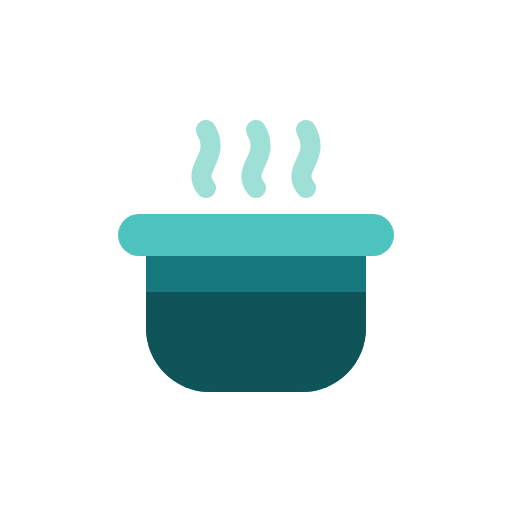
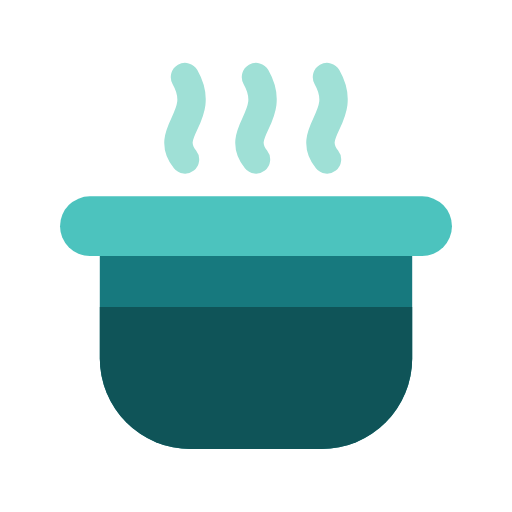
Version 87: App-Symbol am PC ohne Hintergrund
Claude-Session: https://claude.ai/code/session_01SbUVCjYat9ziiaDZ9Au2cc

Changed region(s): [[0.0938, 0.125, 0.9062, 0.875]]

diff --git a/sw.js b/sw.js
@@ -1,6 +1,6 @@
 /* Offline-Unterstützung: App-Dateien werden zwischengespeichert, Daten kommen immer frisch von Supabase. */
-const VERSION = "rb-v86";
-const SHELL = ["./", "index.html", "style.css", "app.js", "config.js", "nutrition.js", "vendor/supabase.js", "vendor/jspdf.umd.min.js", "manifest.webmanifest?i=7", "icons/icon-192.png?i=7", "icons/icon-512.png?i=7", "icons/icon-maskable-512.png?i=7", "icons/icon-monochrome-512.png?i=7", "icons/apple-touch-icon.png?i=7", "icons/icon.svg?i=7", "icons/icon-dark.svg?i=4", "icons/icon-light.svg?i=4", "icons/standard.svg", "icons/kat-kuchen.svg", "icons/kat-kekse.svg", "icons/kat-brot.svg", "icons/kat-dessert.svg", "icons/kat-hauptgericht.svg", "icons/kat-suppen.svg", "icons/kat-saucen.svg", "icons/kat-beilagen.svg", "icons/kat-grundrezepte.svg", "icons/favicon-32.png?i=7"];
+const VERSION = "rb-v87";
+const SHELL = ["./", "index.html", "style.css", "app.js", "config.js", "nutrition.js", "vendor/supabase.js", "vendor/jspdf.umd.min.js", "manifest.webmanifest?i=8", "icons/icon-192.png?i=8", "icons/icon-512.png?i=8", "icons/icon-maskable-512.png?i=8", "icons/icon-monochrome-512.png?i=8", "icons/apple-touch-icon.png?i=8", "icons/icon.svg?i=8", "icons/icon-dark.svg?i=4", "icons/icon-light.svg?i=4", "icons/standard.svg", "icons/kat-kuchen.svg", "icons/kat-kekse.svg", "icons/kat-brot.svg", "icons/kat-dessert.svg", "icons/kat-hauptgericht.svg", "icons/kat-suppen.svg", "icons/kat-saucen.svg", "icons/kat-beilagen.svg", "icons/kat-grundrezepte.svg", "icons/favicon-32.png?i=8"];
 self.addEventListener("install", e => { e.waitUntil(caches.open(VERSION).then(c => c.addAll(SHELL)).then(() => self.skipWaiting())); });
 self.addEventListener("activate", e => { e.waitUntil(caches.keys().then(keys => Promise.all(keys.filter(k => k !== VERSION).map(k => caches.delete(k)))).then(() => self.clients.claim())); });
 self.addEventListener("fetch", e => {
@@ -22,7 +22,7 @@ self.addEventListener("push", e => {
   e.waitUntil(self.clients.matchAll({ type: "window", includeUncontrolled: true }).then(cs => self.registration.showNotification(d.title || "Timer fertig", {
     body: d.body || "", tag: d.tag || "timer", renotify: true, requireInteraction: true,
     silent: cs.some(c => c.visibilityState === "visible"), // App offen: dort klingelt schon die Eieruhr
-    icon: "icons/icon-192.png?i=7", badge: "icons/icon-monochrome-512.png?i=7", vibrate: [400, 120, 400, 120, 400] })));
+    icon: "icons/icon-192.png?i=8", badge: "icons/icon-monochrome-512.png?i=8", vibrate: [400, 120, 400, 120, 400] })));
 });
 self.addEventListener("notificationclick", e => {
   e.notification.close();

diff --git a/index.html b/index.html
@@ -10,13 +10,13 @@
 <meta name="mobile-web-app-capable" content="yes">
 <meta name="apple-mobile-web-app-title" content="Rezeptbuch">
 <meta name="apple-mobile-web-app-status-bar-style" content="default">
-<link rel="manifest" href="manifest.webmanifest?i=7">
-<link rel="icon" href="icons/icon.svg?i=7" type="image/svg+xml">
-<link rel="icon" href="icons/favicon-32.png?i=7" sizes="32x32" type="image/png">
-<link rel="apple-touch-icon" href="icons/apple-touch-icon.png?i=7">
+<link rel="manifest" href="manifest.webmanifest?i=8">
+<link rel="icon" href="icons/icon.svg?i=8" type="image/svg+xml">
+<link rel="icon" href="icons/favicon-32.png?i=8" sizes="32x32" type="image/png">
+<link rel="apple-touch-icon" href="icons/apple-touch-icon.png?i=8">
 <link rel="preconnect" href="https://fonts.googleapis.com">
 <link rel="stylesheet" href="https://fonts.googleapis.com/css2?family=Playfair+Display:wght@500;600;700&family=Inter:wght@400;500;600;700&display=swap">
-<link rel="stylesheet" href="style.css?v=86">
+<link rel="stylesheet" href="style.css?v=87">
 <style>
   html { padding-top: env(safe-area-inset-top, 0px); padding-bottom: env(safe-area-inset-bottom, 0px); }
   body { margin: 0; }
@@ -30,10 +30,10 @@
   <div class="empty"><h2>Wird geladen …</h2></div>
 </div>
 <div class="toast" id="toast" hidden></div>
-<script src="vendor/supabase.js?v=86"></script>
-<script src="vendor/jspdf.umd.min.js?v=86" defer></script>
-<script src="config.js?v=86"></script>
-<script src="nutrition.js?v=86"></script>
-<script src="app.js?v=86"></script>
+<script src="vendor/supabase.js?v=87"></script>
+<script src="vendor/jspdf.umd.min.js?v=87" defer></script>
+<script src="config.js?v=87"></script>
+<script src="nutrition.js?v=87"></script>
+<script src="app.js?v=87"></script>
 </body>
 </html>
